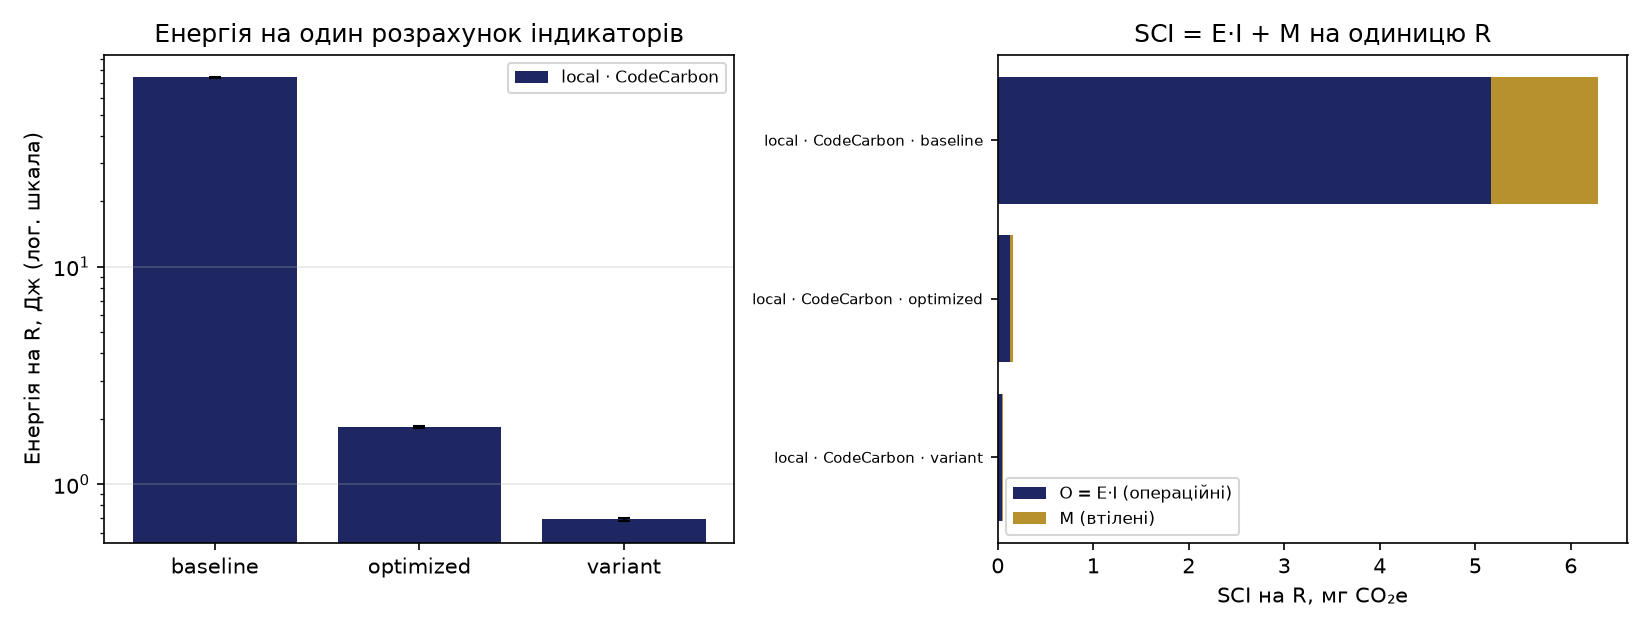
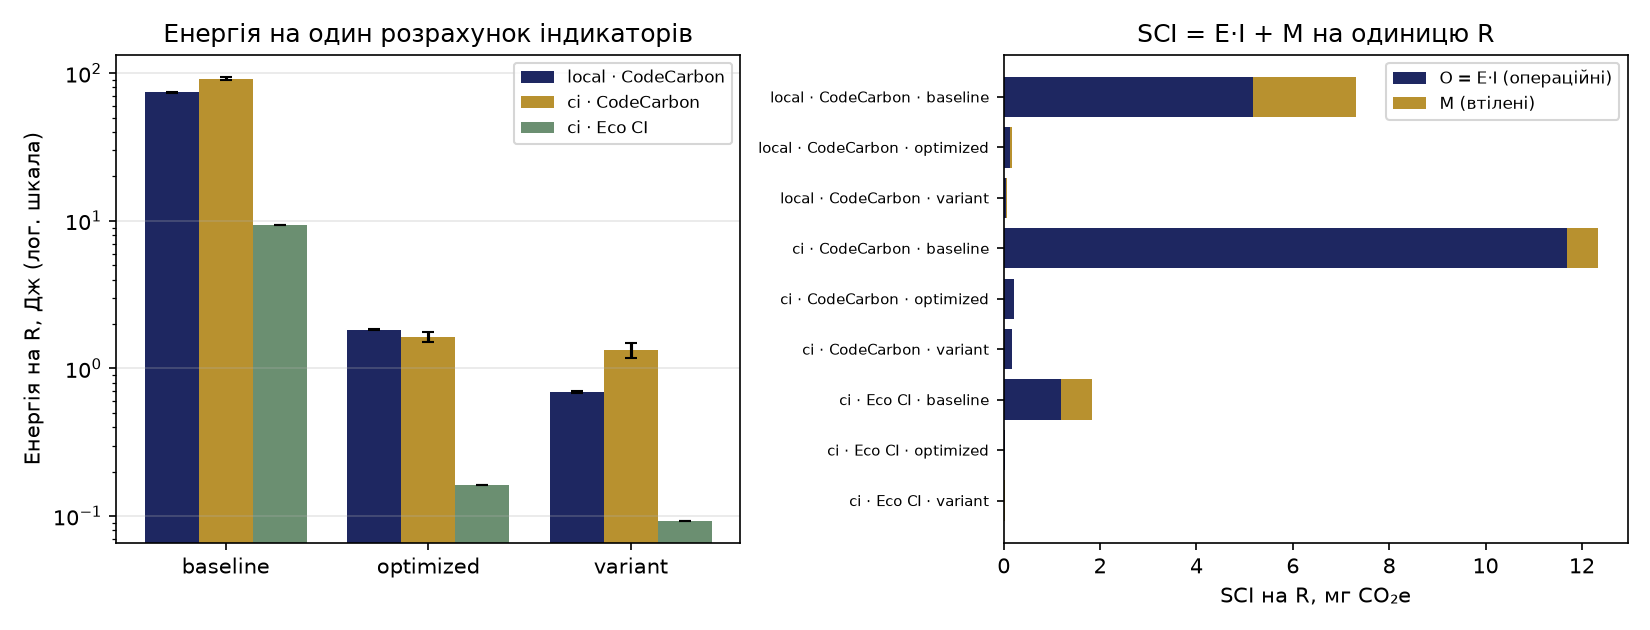
ПР6: фінальні результати CI

diff --git a/pr6/analyze.py b/pr6/analyze.py
@@ -25,7 +25,7 @@ I_CI = 458.29       # світ, 2025 р. (регіон раннера невід
 # Втілені викиди ноутбука TE, кгCO2e — з PCF-звіту
 # виробника: повний слід мінус етап використання.
 # Приклад: Dell Latitude 7450 (2024): 109 − 18 = 91.
-TE_LAPTOP_KG = 91.0    # ← замініть даними свого ноутбука
+TE_LAPTOP_KG = 175.5    # ← замініть даними свого ноутбука
 EL_LAPTOP_YEARS = 4    # очікуваний строк служби, роки
 # Раннер GitHub: сервер AMD EPYC 7763, 1151,7 кгCO2e
 # (Boavizta, як у коді Eco CI); частка — vCPU зі 128

diff --git a/pr6/README.md b/pr6/README.md
@@ -1,61 +1,134 @@
-# ПР6. Вимірювання вуглецевої інтенсивності ПЗ
+# Практична робота № 6. Вимірювання вуглецевої інтенсивності програмного забезпечення: CodeCarbon, Eco CI і метрика SCI (Варіант 3: Polars замість pandas)
 
-**Студент:** ПІБ, група  
-**Варіант:** № __ — назва  
-**Дата:** __.__.____
-
-## 1. Об'єкт і функціональна одиниця
-
-Що вимірюємо (навантаження), функціональна одиниця R,
-версії коду (baseline, optimized, variant) і чим вони відрізняються.
-
-## 2. Середовища і спосіб вимірювання
-
-| | Локально | GitHub Actions |
-|---|---|---|
-| ОС, процесор | | ubuntu-latest, ___ vCPU (репозиторій публічний / приватний), процесор: ___ |
-| Інструмент | CodeCarbon 3.3.2 | Eco CI v5.3.0 + CodeCarbon |
-| Спосіб для CPU (`measure.py check`) | вимір / оцінка: ___ | оцінка |
-| Потужність простою, Вт | | |
-| Інтенсивність мережі I, гCO₂e/кВт·год | 250,47 (Україна, Ember 2022) | 458,29 (світ, Ember 2025) |
-
-Чому `send-data: false` і `OfflineEmissionsTracker` — одним-двома реченнями.
-
-## 3. Результати
-
-Таблиця з `results/summary.csv` (E на R з 95 % довірчим інтервалом,
-час на R, потужність, O, M, SCI) і рисунок `reports/figures/energy_sci.png`.
-
-| Джерело | Версія | E на R, Дж | ±95 % | t на R, с | SCI на R, мг CO₂e |
-|---|---|---|---|---|---|
-| | | | | | |
-
-## 4. Порівняння «локально — CI»
-
-- Економія енергії й прискорення optimized/variant відносно baseline
-  в кожному середовищі — чи збігаються?
-- Eco CI проти CodeCarbon на тому самому раннері: у скільки разів
-  відрізняються оцінки потужності й чому.
-- Частка втілених викидів M у SCI для ноутбука і для раннера.
-
-## 5. Власний CI-конвеєр (ПР1–ПР3)
-
-Енергія та SCI одного запуску конвеєра за даними Eco CI;
-річна оцінка для команди (формула (10)).
-
-## 6. Варіант
-
-Що змінено, результати, відповідь на творче питання.
-
-## 7. Висновки й обмеження
-
-Кожне твердження — з числом. Обмеження методики
-(оцінка чи вимір, модель RAM, невідомий регіон раннера тощо).
-
-## 8. Використання ШІ
-
-Інструмент, запити, що перевірено й виправлено вручну.
+**Студент:** Корнієнко Максим Вячеславович, група М КН 2026-1  
+**Варіант:** № 3  
+**Дата:** 19.11.2026
 
 ---
-Дані: «Щогодинні концентрації PM2.5…» (ГО «SaveDnipro», data.gov.ua,
-CC BY), вибірка для Києва і Харкова, 2021–2023 рр.
+
+## 1. Об'єкт вимірювання та функціональна одиниця
+
+* **Об'єкт дослідження:** програма розрахунку річних та добових індикаторів якості повітря за даними PM2.5 (SaveEcoBot, 2021–2023 рр.) для Києва (`city_id = 2`) та Харкова (`city_id = 219`) з урахуванням правила мінімум 18 валідних годин на добу, кількості діб із перевищенням норми ВООЗ ($15\text{ мкг/м}^3$) і норми ЄС ($25\text{ мкг/м}^3$), повноти ряду та рівня за проміжними цілями ВООЗ.
+* **Функціональна одиниця ($R$):** один повний розрахунок підсумкової таблиці індикаторів для двох міст за три роки (6 комбінацій місто–рік).
+* **Порівнювані реалізації:**
+  * **`baseline` (`bench/baseline.py`):** базова реалізація на `pandas` із 5 типовими неефективностями (повторне читання CSV без фільтрації стовпців, порядковий парсинг дат через `apply(strptime)`, порядкова валідація через `apply(..., axis=1)`, цикл по 365 днях із повною фільтрацією таблиці на кожній ітерації, агрегація списками Python).
+  * **`optimized` (`bench/optimized.py`):** оптимізована версія на `pandas` (одноразове зчитування 3 потрібних стовпців із явними типами `int32`/`float64`, векторний `pd.to_datetime`, векторний `between(0, 1000)`, єдине групування `groupby` за містом і добою та агрегація `agg()`).
+  * **`variant` (`bench/variant.py`, Варіант 3):** реалізація на бібліотеці `polars` із використанням лінивого сканування `pl.scan_csv(..., null_values="NULL")`, багатопотокової векторної обробки, групувань `group_by` та конвертації фінальної агрегованої таблиці у `pandas.DataFrame`. Коректність усіх трьох версій підтверджено автоматичною перевіркою `python measure.py verify` (`OK`).
+
+---
+
+## 2. Середовища, способи вимірювання та параметри SCI
+
+| Параметр | Локальне середовище (`local`) | Середовище CI (`ci`, GitHub Actions) |
+| :--- | :--- | :--- |
+| **ОС та апаратне забезпечення** | Windows 11, ноутбук **Lenovo IdeaPad Gaming 3 15IAH7** (12th Gen Intel Core i5-12450H, TDP 85 Вт, NVIDIA RTX 3060) | Ubuntu (`ubuntu-latest`, Azure), AMD EPYC 7763 (4 vCPU зі 128, публічний репозиторій) |
+| **Інструмент і версія** | CodeCarbon `3.3.2` (`OfflineEmissionsTracker`) | CodeCarbon `3.3.2` + Eco CI `v5.3.0` |
+| **Спосіб отримання потужності CPU** | **`windows_emi` — прямий вимір** апаратними лічильниками Energy Meter Interface (перевірено `measure.py check`) | **`cpu_load` — модельна оцінка** CodeCarbon ($P = \text{TDP}\cdot(0{,}1 + 0{,}9 L^3)$, $\text{TDP} = 280\text{ Вт}$) та SPECpower-крива $P(u)$ в Eco CI |
+| **Оцінка потужності RAM** | Модельна оцінка CodeCarbon (`10.0 Вт`) | Модельна оцінка CodeCarbon (`10.0 Вт`); у Eco CI враховано в кривій сервера |
+| **Середня потужність простою ($\overline{P}_{\text{прост}}$)** | **29,75 Вт** ($n = 3$ по 20 с) | CodeCarbon: **38,04 Вт**; Eco CI: **2,39 Вт** |
+| **Вуглецева інтенсивність мережі ($I$)** | **250,47 г $\text{CO}_2\text{e}/\text{кВт}\cdot\text{год}$** (Україна, Ember Yearly Electricity Data 2026 / OWID, дані за 2022 р.) | **458,29 г $\text{CO}_2\text{e}/\text{кВт}\cdot\text{год}$** (світове середнє, Ember 2025; у параметрах Eco CI вказано `458`) |
+| **Втілені викиди ($TE$) та строк служби ($EL$)** | $TE = 175{,}5\text{ кг CO}_2\text{e}$ ($260 - 84{,}5\text{ кг CO}_2\text{e}$ за PCF-звітом Lenovo IdeaPad Gaming 3 15IAH7), $EL = 4\text{ роки}$, $RR/ToR = 1$ | $TE_{\text{сервера}} = 1151{,}7\text{ кг CO}_2\text{e}$ (Boavizta, AMD EPYC 7763), частка раннера $4/128 \Rightarrow TE = 35\,990{,}6\text{ г CO}_2\text{e}$, $EL = 4\text{ роки}$ |
+
+### Захист від небажаної передачі даних
+* У **CodeCarbon** використано `OfflineEmissionsTracker` із явно заданим `country_iso_code="UKR"`, фіксованою інтенсивністю `force_carbon_intensity_g_co2e_kwh` та `save_to_file=False` (дашборд `save_to_api` не використовується) — трекер не робить жодних мережевих запитів і не визначає геолокацію за IP-адресою.
+* В **Eco CI** задано `send-data: false`, `display-badge: false` та `co2-calculation-method: constant` (`co2-grid-intensity-constant: 458`), що повністю вимикає відправку телеметрії на `metrics.green-coding.io` та звернення до зовнішніх сервісів геолокації за IP.
+
+---
+
+## 3. Результати вимірювань та розрахунок SCI
+
+Зведена таблиця результатів із `results/summary.csv` (формули (3)–(9)):
+
+| Джерело (`source`) | Версія (`label`) | $n$ | $E_R$, Дж | $\pm \text{CI}_{95\%}$, Дж | $t_R$, с | $\overline{P}$, Вт | $O_R$, мг $\text{CO}_2\text{e}$ | $M_R$, мг $\text{CO}_2\text{e}$ | $\text{SCI}$, мг $\text{CO}_2\text{e}$ |
+| :--- | :--- | :---: | :---: | :---: | :---: | :---: | :---: | :---: | :---: |
+| `local · CodeCarbon` | `baseline` | 5 | 74,229 | 0,618 | 1,5460 | 48,01 | 5,1645 | 2,1509 | **7,3154** |
+| `local · CodeCarbon` | `optimized` | 5 | 1,834 | 0,015 | 0,0380 | 48,26 | 0,1276 | 0,0529 | **0,1805** |
+| `local · CodeCarbon` | `variant` (Polars) | 5 | 0,691 | 0,011 | 0,0113 | 61,29 | 0,0481 | 0,0157 | **0,0637** |
+| `ci · CodeCarbon` | `baseline` | 3 | 91,914 | 2,628 | 2,2067 | 41,65 | 11,7008 | 0,6296 | **12,3305** |
+| `ci · CodeCarbon` | `optimized` | 3 | 1,638 | 0,136 | 0,0382 | 42,83 | 0,2085 | 0,0109 | **0,2195** |
+| `ci · CodeCarbon` | `variant` (Polars) | 3 | 1,332 | 0,151 | 0,0169 | 79,03 | 0,1696 | 0,0048 | **0,1744** |
+| `ci · Eco CI` | `baseline` | 1 | 9,316 | — | 2,2645 | 4,11 | 1,1859 | 0,6461 | **1,8320** |
+| `ci · Eco CI` | `optimized` | 1 | 0,162 | — | 0,0393 | 4,12 | 0,0206 | 0,0112 | **0,0318** |
+| `ci · Eco CI` | `variant` (Polars) | 1 | 0,093 | — | 0,0174 | 5,35 | 0,0118 | 0,0050 | **0,0168** |
+
+![Енергія та SCI на один розрахунок індикаторів](reports/figures/energy_sci.png)
+
+### Приклад перевірки розрахунку SCI (формула (7)) для `local · CodeCarbon · baseline`
+* Енергія на розрахунок: $E_R = \frac{74{,}229\text{ Дж}}{3{,}6 \cdot 10^6\text{ Дж/кВт}\cdot\text{год}} \approx 2{,}0619 \cdot 10^{-5}\text{ кВт}\cdot\text{год}$.
+* Операційні викиди (8): $O_R = E_R \cdot I = 2{,}0619 \cdot 10^{-5} \cdot 250{,}47 \approx 5{,}1645\text{ мг CO}_2\text{e}$.
+* Втілені викиди (9): $M_R = 175\,500\text{ г} \cdot \frac{1{,}5460\text{ с}}{4 \cdot 365 \cdot 86\,400\text{ с}} \cdot 1 \approx 2{,}1509\text{ мг CO}_2\text{e}$.
+* Підсумковий індекс: $\text{SCI} = 5{,}1645 + 2{,}1509 = 7{,}3154\text{ мг CO}_2\text{e}$ на один розрахунок $R$.
+
+---
+
+## 4. Порівняння «локально ↔ CI» та моделей інструментів
+
+1. **Відтворюваність відносної економії та прискорення:**
+   * **Локально (`CodeCarbon`, `windows_emi`):** версія `optimized` зменшила енергію на одиницю $R$ на **97,5 %** (прискорення у **40,7×**), а `variant` (Polars) — на **99,1 %** (прискорення у **136,8×**). 95%-ві довірчі інтервали ($74{,}229 \pm 0{,}618$, $1{,}834 \pm 0{,}015$ та $0{,}691 \pm 0{,}011\text{ Дж}$) не перетинаються, отже перевага обох оптимізованих версій статистично значуща.
+   * **У GitHub Actions (`CodeCarbon`, `cpu_load`):** економія склала **98,2 %** (прискорення **57,8×**) для `optimized` та **98,6 %** (прискорення **130,6×**) для `variant`.
+   * **У GitHub Actions (`Eco CI`):** економія склала **98,3 %** (прискорення **57,6×**) для `optimized` та **99,0 %** (прискорення **130,1×**) для `variant`.
+   * Висновок про ефективність оптимізації повністю відтворюється у всіх трьох джерелах.
+
+2. **Чому `ci · CodeCarbon` і `ci · Eco CI` відрізняються на порядок (~10×):**
+   * На одному й тому самому раннері з процесором AMD EPYC 7763 для `baseline` CodeCarbon оцінив середню потужність у **41,65 Вт** ($E_R = 91{,}914\text{ Дж}$), тоді як Eco CI дав **4,11 Вт** ($E_R = 9{,}316\text{ Дж}$).
+   * Причина полягає в різних моделях віртуалізації: CodeCarbon бачить модель фізичного 64-ядерного процесора EPYC 7763 із повним $\text{TDP} = 280\text{ Вт}$ і підставляє його у формулу (2) ($280 \cdot (0{,}1 + 0{,}9 L^3)$), додаючи ще $10\text{ Вт}$ на RAM, не знаючи, що віртуальна машина отримала лише 4 vCPU зі 128. Натомість модель Eco CI відкалібрована за даними SPECpower саме для частки 4 із 128 vCPU (діапазон потужності $1{,}76\text{–}8{,}18\text{ Вт}$).
+
+3. **Частка втілених викидів ($M_R / \text{SCI}$):**
+   * На ігровому ноутбуці Lenovo IdeaPad Gaming 3 15IAH7 ($TE = 175{,}5\text{ кг CO}_2\text{e}$) втілені викиди становлять **29,4 %** від загального SCI для `baseline` ($2{,}1509 / 7{,}3154$) і **24,6 %** для `variant` ($0{,}0157 / 0{,}0637$).
+   * На раннері GitHub за оцінкою Eco CI частка втілених викидів ще вища — **35,3 %** для `baseline` ($0{,}6461 / 1{,}8320$) і **29,8 %** для `variant` ($0{,}0050 / 0{,}0168$), оскільки операційна потужність 4 віртуальних ядер сервера невелика (4–5 Вт), а втілені викиди серверного обладнання вагомі.
+
+---
+
+## 5. Енергоспоживання власного CI-конвеєра (`.github/workflows/ci.yml`)
+
+До кожного з трьох завдань (`job`) конвеєра з Практичних робіт № 1–3 додано кроки `eco-ci-energy-estimation@v5.3.0`. За результатами запуску (`push` у гілку `main`, тривалість 56 с):
+
+| Завдання (`job`) конвеєра `ci.yml` | Сер. завантаження CPU, % | Енергія, Дж | Сер. потужність, Вт | Тривалість, с | $\text{SCI}$ завдання, г $\text{CO}_2\text{e}$ |
+| :--- | :---: | :---: | :---: | :---: | :---: |
+| `build-and-test` | 33,33 | 7,27 | 4,35 | 1,67 | 0,001401 |
+| `build-and-push-image` | 21,36 | 60,11 | 3,82 | 15,75 | 0,012141 |
+| `deploy` | 36,88 | 57,34 | 4,59 | 12,48 | 0,010856 |
+| **Разом за 1 запуск `ci.yml`** | — | **124,72** | — | **29,90** | **0,024398** |
+
+*(Для порівняння: один повний запуск тестового конвеєра `pr6-energy.yml` спожив $1102{,}00\text{ Дж}$ за $267{,}80\text{ с}$ із $\text{SCI} = 0{,}216606\text{ г CO}_2\text{e}$).*
+
+### Річна оцінка вуглецевого сліду конвеєра (формула (10))
+Для команди розробки за параметрами прикладу з Лекції 6 ($n_{\text{розр}} = 20$ розробників, $n_{\text{push}} = 5$ комітів/день, $n_{\text{днів}} = 220$ робочих днів/рік):
+$$N = 20 \cdot 5 \cdot 220 = 22\,000\text{ запусків/рік}$$
+$$C_{\text{рік}} = N \cdot \text{SCI}_{\text{запуск}} = 22\,000 \cdot 0{,}024398\text{ г CO}_2\text{e} \approx 536{,}76\text{ г CO}_2\text{e/рік} \approx 0{,}537\text{ кг CO}_2\text{e/рік}$$
+Річне енергоспоживання конвеєра складе $22\,000 \cdot 124{,}72\text{ Дж} \approx 2{,}74\text{ МДж}$ ($0{,}762\text{ кВт}\cdot\text{год/рік}$). Найбільшу частку енергії споживають кроки збірки та завантаження Docker-образу (`build-and-push-image` — 48,2 %) і розгортання інфраструктури (`deploy` — 46,0 %).
+
+---
+
+## 6. Результати варіанта № 3 (Polars замість pandas) та відповідь на творче питання
+
+### Порівняння показників продуктивності та енергоефективності
+* **Локально (`windows_emi`):** перехід з оптимізованого `pandas` (`optimized`) на `polars` (`variant`) скоротив час одного розрахунку $t_R$ у **3,36 раза** — з **0,0380 с** до **0,0113 с**, зменшивши енергію на одиницю роботи $E_R$ на **62,3 %** (з $1{,}834 \pm 0{,}015$ до $0{,}691 \pm 0{,}011\text{ Дж}$) та $\text{SCI}$ з **0,1805** до **0,0637 мг $\text{CO}_2\text{e}$** (економія **99,1 %** відносно `baseline`). При цьому середня потужність ноутбука $\overline{P}$ зросла з **48,26 Вт** до **61,29 Вт** ($+13{,}03\text{ Вт}$).
+* **У GitHub Actions (`Eco CI`):** завантаження CPU зросло вдвічі — з **26,59 %** (`optimized`) до **53,35 %** (`variant`), середня потужність піднялася з **4,12 Вт** до **5,35 Вт**, але час розрахунку зменшився з **0,0393 с** до **0,0174 с** (у **2,26 раза**), що знизило енергію $E_R$ з **0,162 Дж** до **0,093 Дж** (додаткова економія **42,6 %** відносно `optimized`).
+
+### Відповідь на творче питання
+> *Polars за замовчуванням використовує всі ядра процесора. Чому потужність при цьому може зрости, а енергія на R — зменшитися? Чи завжди так?*
+
+Бібліотека `pandas` виконує більшість операцій в одному потоці (завантажуючи переважно 1 ядро процесора), тоді як рушій `Polars` побудований на багатопотоковому виконанні запитів і задіює всі доступні ядра CPU одночасно. У наших вимірах на Intel Core i5-12450H це збільшило миттєву потужність $\overline{P}$ на **27 %** (з 48,26 Вт до 61,29 Вт), а на 4-ядерному раннері GitHub — на **30 %** (з 4,12 Вт до 5,35 Вт). Проте енергія дорівнює добутку потужності на час ($E_R = \overline{P} \cdot t_R$): оскільки паралельна обробка та векторні оптимізації скоротили час розрахунку $t_R$ у **3,36 раза** (на 70 %), сумарна витрачена енергія на одну функціональну одиницю $R$ зменшилася в **2,65 раза** (принцип *Race to Idle* — швидше завершити роботу й перевести ядра у стан енергозбереження).
+
+Однак це працює не завжди: на дуже малих наборах даних (кілька тисяч рядків) накладні витрати на створення потоків, синхронізацію та конвертацію результату у `pandas` (`to_pandas()`) можуть перевищити виграш від паралелізму, а на процесорах у режимі агресивного Turbo Boost при високих частотах споживання росте кубічно від напруги/частоти — тоді зростання потужності може перекрити скорочення часу.
+
+---
+
+## 7. Висновки та обмеження
+
+1. **Ефект алгоритмічної та бібліотечної оптимізації:** усунення антипатернів у `pandas` зменшило енерговитрати на один розрахунок локально з $74{,}229 \pm 0{,}618$ до $1{,}834 \pm 0{,}015\text{ Дж}$ (**−97,5 %**), а перехід на багатопотоковий рушій `Polars` (Варіант 3) знизив енергію до $0{,}691 \pm 0{,}011\text{ Дж}$ (**−99,1 %** від базової версії; зниження $\text{SCI}$ з $7{,}3154$ до $0{,}0637\text{ мг CO}_2\text{e}$).
+2. **Внесок втілених викидів:** залежно від платформи втілені викиди обладнання становлять від **24,6–29,4 %** (ноутбук Lenovo IdeaPad Gaming 3 15IAH7) до **35,3 %** (хмарний раннер за моделлю Eco CI) від загального $\text{SCI}$, що підтверджує важливість подовження строку служби техніки ($EL$) поряд із оптимізацією коду.
+3. **Оптимізація CI/CD:** один запуск конвеєра `ci.yml` витрачає $124{,}72\text{ Дж}$ ($0{,}024398\text{ г CO}_2\text{e}$), що за 22 000 запусків на рік дає $536{,}76\text{ г CO}_2\text{e}$; основний резерв економії — кешування Docker-шарів і залежностей Python та фільтрація запусків за `paths-ignore` для документації.
+4. **Обмеження вимірювань:**
+   * На локальному ноутбуці споживання CPU вимірювалося апаратно (`windows_emi`), але споживання оперативної пам'яті в CodeCarbon завжди оцінюється фіксованою моделлю ($10\text{ Вт}$).
+   * У GitHub Actions обидва інструменти працюють у режимі оцінки без доступу до апаратних лічильників хоста, причому CodeCarbon завищує потужність приблизно в 10 разів через використання повного $\text{TDP} = 280\text{ Вт}$ серверного CPU замість частки 4 vCPU.
+   * Регіон конкретного раннера GitHub невідомий (застосовано середньосвітове $I = 458{,}29\text{ г CO}_2\text{e/кВт}\cdot\text{год}$ за 2025 р.), а для України використано останні доступні дані Ember за 2022 р. ($250{,}47\text{ г CO}_2\text{e/кВт}\cdot\text{год}$).
+
+---
+
+## 8. Журнал використання ШІ
+
+* **Інструмент:** Gemini.
+* **Мета та обсяг використання:** допомога в перенесенні логіки розрахунку індикаторів на API бібліотеки `Polars` (`pl.scan_csv`, `group_by`, агрегація з правилом 18 годин) для Варіанту 3.
+* **Виявлені та виправлені помилки:** під час першої перевірки `python measure.py verify` для реалізації на `Polars` виникла помилка `ModuleNotFoundError: No module named 'pyarrow'` при виклику методу `.to_pandas()`. Помилку виявлено локально та виправлено додаванням залежності `pyarrow>=15.0` у файл `pr6/requirements.txt` перед запуском вимірювань і відправкою коду в GitHub Actions.
